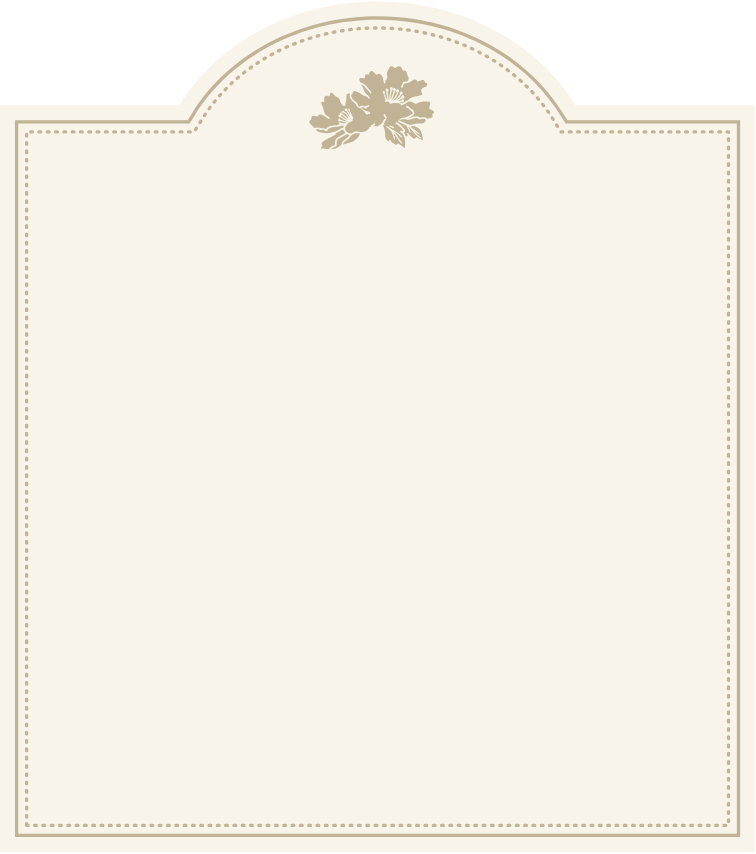
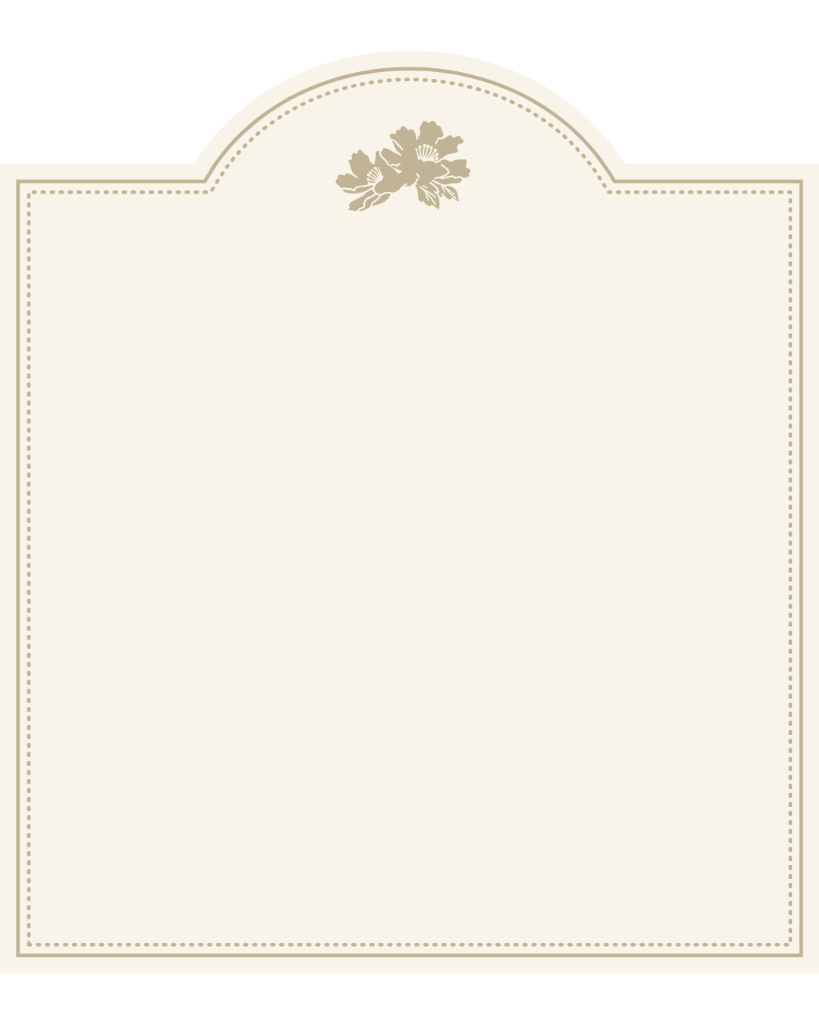
Replace event card background with new vintage arch card design

diff --git a/styles.css b/styles.css
@@ -4,7 +4,7 @@
 /* Invitation opening: each prop has its own layer. */
 .opening{position:fixed;z-index:90;inset:0;color:var(--paper);display:flex;align-items:center;justify-content:center;overflow:hidden;background:#244638;transition:opacity .8s ease,visibility .8s}.curtain{position:absolute;inset-block:0;width:50.2%;background-image:linear-gradient(#0d223a25,#0e23314d),url('assets/01-background-satin.webp');background-size:200% 100%;transition:transform 1.5s cubic-bezier(.7,0,.25,1);pointer-events:none}.curtain-left{left:0;background-position:left center;transform-origin:left center}.curtain-right{right:0;background-position:right center;transform-origin:right center}.opening:after{content:"";position:absolute;inset:0;box-shadow:inset 0 0 180px #081d2866;pointer-events:none;z-index:-1}.opening-content{width:min(540px,100%);text-align:center;position:relative;padding:35px 20px 25px;z-index:2;transition:opacity .7s,transform 1s}.cover-badge{font-size:9px;letter-spacing:.32em;color:#eedec5;margin-bottom:10px;text-transform:uppercase}.cover-lantern{position:absolute;z-index:1;top:-65px;width:clamp(110px,17vw,245px);filter:drop-shadow(0 14px 20px #122a3530)}.lantern-left{left:max(20px,calc(50% - 570px))}.lantern-right{right:max(20px,calc(50% - 570px));top:-110px;animation-delay:-3s}.envelope-scene{position:relative;width:100%;height:330px;margin:20px 0 0;perspective:1000px}.envelope-motion{position:absolute;width:90%;height:auto;aspect-ratio:3/2;left:5%;top:15px;transform:rotate(-5deg);transition:transform 1.2s cubic-bezier(.22,1,.36,1);transform-style:preserve-3d}.envelope-body{width:100%;position:absolute;top:0;z-index:4;filter:drop-shadow(0 20px 14px #102b3044);pointer-events:none}.envelope-flap{position:absolute;z-index:5;width:89.8%;left:5.1%;top:1.9%;transform-origin:50% 18.75%;transition:transform 1s cubic-bezier(.4,0,.2,1),z-index .1s .5s;backface-visibility:visible}.envelope-flap>img{width:100%}.envelope-seal{position:absolute;z-index:6;top:62%;left:42%;width:16.5%;cursor:pointer;filter:drop-shadow(0 4px 6px #102b3040);transition:transform .6s cubic-bezier(.34,1.56,.64,1),opacity .45s ease}.letter-insert{position:absolute;z-index:2;width:82%;height:92%;left:9%;top:4%;background:#fbf7ee;color:var(--jade);border:1px solid #c8b593;box-shadow:inset 0 0 0 1px #eedec5,0 8px 25px #0a1f2640;display:flex;align-items:center;justify-content:center;flex-direction:column;gap:3px;padding:20px 16px 16px;text-align:center;transition:transform 1.2s cubic-bezier(.2,.8,.2,1) .45s,z-index .1s .9s,box-shadow .8s}.letter-insert .letter-eyebrow{font:8px var(--sans);letter-spacing:.26em;color:#7e6955;text-transform:uppercase}.letter-insert .letter-title{font-size:54px;line-height:.92;color:#22533e;margin:6px 0 4px}.letter-insert .letter-title span{font-size:.6em;color:#b15a47;margin:0 4px}.letter-insert .letter-rule{width:42px;height:1px;background:#cbbba0;margin:6px auto}.letter-insert .letter-date{font-family:var(--serif);font-size:13px;letter-spacing:.15em;color:#4f3d56;text-transform:uppercase;margin:4px 0 2px}.letter-insert .letter-city{font:8px var(--sans);letter-spacing:.22em;color:#857560;text-transform:uppercase}.envelope-tulip{position:absolute;width:28%;left:-4%;bottom:-8%;top:auto;right:auto;z-index:7;rotate:15deg;filter:drop-shadow(0 5px 6px #102b3033);transition:transform 1.2s,translate 1.2s}.envelope-fan{position:absolute;width:42%;right:-2%;top:-12%;transform:rotate(14deg);z-index:0;transition:transform 1.2s}.guest-address{margin:6px 0 20px;transition:opacity .4s ease}.guest-address .eyebrow{font-size:8px;letter-spacing:.22em}.guest-name{font-size:22px;margin-top:4px}.skip-opening{display:block;margin:18px auto 0;font:9px var(--sans);letter-spacing:.08em;color:#f1e6d9b0;background:transparent;padding:8px;transition:opacity .4s ease}#open-invitation{transition:opacity .4s ease}.opening.is-opening .envelope-seal{opacity:0;transform:scale(1.25) translateY(35px) rotate(20deg);pointer-events:none}.opening.is-opening .envelope-flap{transform:rotateX(180deg);z-index:1}.opening.is-opening .envelope-motion{transform:rotate(0deg) translateY(12px)}.opening.is-opening .letter-insert{transform:translateY(-86%) scale(1.05);z-index:8;box-shadow:inset 0 0 0 1px #eedec5,0 24px 45px #07171d55}.opening.is-opening .envelope-tulip{translate:-18px 10px;rotate:25deg}.opening.is-opening .envelope-fan{transform:rotate(25deg) translate(18px,-10px)}.opening.is-opening .guest-address,.opening.is-opening #open-invitation,.opening.is-opening .skip-opening{opacity:0;pointer-events:none}.opening.opened .curtain-left{transform:translateX(-105%)}.opening.opened .curtain-right{transform:translateX(105%)}.opening.opened .opening-content{opacity:0;transform:scale(1.08)}.opening.dismissed{opacity:0;visibility:hidden;pointer-events:none}
 /* Desktop remains an editorial portrait while the invitation scrolls. */
-.desktop-art{position:fixed;left:0;top:0;width:calc(100% - 560px);height:100dvh;overflow:hidden;background:linear-gradient(#102f3555,#113c4077),url('assets/01-background-satin.webp') center/cover;color:var(--paper)}.desktop-text{position:relative;z-index:2;text-align:center;padding-top:17vh}.desktop-text>.script{font-size:clamp(95px,9vw,150px);margin-top:28px;line-height:.9}.desktop-text>.script span{font-size:.5em}.desktop-date{font-size:11px;letter-spacing:.25em;margin-top:35px}.desktop-lantern{position:absolute;top:-55px;left:2%;width:28%;max-width:220px}.desktop-lantern.second{left:auto;right:0;top:-135px;animation-delay:-3s}.desktop-bouquet{position:absolute;bottom:-8%;right:-8%;width:39%;max-width:400px;z-index:3}.desktop-fan{position:absolute;bottom:-1%;left:-7%;width:51%;transform:rotate(12deg);filter:drop-shadow(0 12px 15px #113c4040)}.desktop-bottom{position:absolute;bottom:25px;left:30px;right:30px;display:flex;justify-content:space-between;font:8px var(--sans);letter-spacing:.18em;z-index:4}.desktop-bottom span:last-child{font-family:var(--serif);font-style:italic;letter-spacing:.05em;font-size:13px}main{width:560px;margin-left:auto;box-shadow:-15px 0 65px #041c3329;background:var(--paper)}.hero{min-height:860px;min-height:100svh;background:#dae6d8;padding:28px 25px 55px;text-align:center}.hero:before{content:"";inset:12px;position:absolute;border:1px solid #91a88a77;pointer-events:none}.hero-top{display:flex;justify-content:space-between;font:8px var(--sans);letter-spacing:.18em;margin-bottom:48px;color:#496653}.hero>.eyebrow{font-size:8px;letter-spacing:.25em}.hero-medallion{position:relative;width:86%;max-width:360px;height:auto;aspect-ratio:2/3;margin:15px auto 8px}.date-card{width:100%;height:100%}.hero-medallion-text{position:absolute;inset:17% 14% 12%;display:flex;flex-direction:column;justify-content:center;align-items:center;color:#513e58}.hero-medallion-text .eyebrow{font-size:7px}.hero-medallion-text h2{font-size:75px;line-height:.8;margin-top:20px}.hero-medallion-text h2 em{font-size:35px;font-style:normal;display:inline-block;margin:10px}.hero-medallion-text p{font:9px var(--sans);letter-spacing:.16em}.hero-medallion-text .fine-rule{margin:25px auto 18px}.hero-knot{top:58px;right:-7px;width:87px;z-index:3}.hero-peony{width:170px;bottom:100px;left:-42px;z-index:3}.hero-fan{width:220px;right:-77px;bottom:145px;rotate:-32deg}.hero-bottom{position:relative;z-index:4;font-size:18px;margin:0 auto;max-width:350px}.scroll-cue{display:flex;flex-direction:column;align-items:center;font:8px var(--sans);letter-spacing:.2em;text-decoration:none;margin-top:28px;gap:14px}.scroll-cue span{font:25px var(--serif)}.quote{text-align:center;padding-block:80px 65px}.small-symbol{width:65px;margin:0 auto 25px}.quote blockquote{font-size:30px;font-style:italic;line-height:1.45;margin:26px -15px}.quote-foot{font-size:17px}.ornamental-rule{margin:35px auto 0;color:var(--gold);position:relative;display:flex;align-items:center;gap:15px;justify-content:center}.ornamental-rule:before,.ornamental-rule:after{content:"";width:60px;height:1px;background:#baa37c77}.couple{text-align:center;padding-inline:35px}.couple-portrait{position:relative;width:275px;height:412px;margin:0 auto 30px}.portrait{position:absolute;width:70%;height:72%;left:15%;top:14%;object-fit:cover;border-radius:50%;filter:sepia(.13)}.portrait-frame{position:absolute;inset:0;width:100%;height:100%;z-index:2}.portrait-flower{position:absolute;z-index:3;width:115px;right:-33px;bottom:-12px}.couple-names h3{font-size:29px;font-weight:500}.couple-names p{font-size:17px;margin-top:9px}.couple-and{display:block;font-size:45px;color:#b15a47;margin:16px auto}.couple-knot-ornament{position:absolute;left:18px;top:-28px;width:72px;z-index:4;filter:drop-shadow(0 4px 8px rgba(16,43,48,.25));animation:sway 6s ease-in-out infinite;transform-origin:50% 0}.couple-knot-ornament img{width:100%}.keepsake{padding:70px 20px 60px;text-align:center;color:var(--paper);background:radial-gradient(ellipse at 20% 10%,#335f43 0,transparent 55%),#113d30;position:relative}.keepsake:after{content:"";position:absolute;inset:14px;border:1px solid #bd9d6f42;pointer-events:none;z-index:-1}.keepsake .section-heading{margin-bottom:0}.keepsake-collage{height:490px;width:100%;position:relative;max-width:440px;margin:15px auto 25px}.keepsake-item{transition:opacity .85s cubic-bezier(.22,1,.36,1),transform .95s cubic-bezier(.22,1,.36,1);will-change:transform,opacity}.keepsake-collage:not(.in-view) .keepsake-item{opacity:0;pointer-events:none}.keepsake-collage:not(.in-view) .keepsake-pearls{transform:translateY(-35px) scale(.92)}.keepsake-collage:not(.in-view) .tray-composition{transform:translate(35px,-25px) scale(.9) rotate(8deg)}.keepsake-collage:not(.in-view) .keepsake-name-card{transform:translate(-35px,20px) scale(.9) rotate(-10deg)}.keepsake-collage:not(.in-view) .keepsake-date{transform:translate(35px,20px) scale(.9) rotate(12deg)}.keepsake-collage:not(.in-view) .keepsake-fan{transform:translate(-30px,40px) scale(.85) rotate(-18deg)}.keepsake-collage:not(.in-view) .polaroid-one{transform:translateY(45px) scale(.85) rotate(-5deg)}.keepsake-collage:not(.in-view) .keepsake-bouquet{transform:translate(35px,40px) scale(.85) rotate(15deg)}.keepsake-collage.in-view .keepsake-item{opacity:1}.keepsake-collage.in-view .keepsake-pearls{transition-delay:.1s;transform:translateY(0) scale(1) rotate(-6deg)}.keepsake-collage.in-view .tray-composition{transition-delay:.28s;transform:translate(0,0) scale(1) rotate(4deg)}.keepsake-collage.in-view .keepsake-name-card{transition-delay:.48s;transform:translate(0,0) scale(1) rotate(-4deg)}.keepsake-collage.in-view .keepsake-date{transition-delay:.68s;transform:translate(0,0) scale(1) rotate(5deg)}.keepsake-collage.in-view .keepsake-fan{transition-delay:.88s;transform:translate(0,0) scale(1) rotate(-8deg)}.keepsake-collage.in-view .polaroid-one{transition-delay:1.08s;transform:translate(0,0) scale(1) rotate(0deg)}.keepsake-collage.in-view .keepsake-bouquet{transition-delay:1.28s;transform:translate(0,0) scale(1) rotate(6deg)}.keepsake-name-card{position:absolute;left:8%;top:68px;width:48%;aspect-ratio:2/3;z-index:2;filter:drop-shadow(0 10px 14px #0006)}.keepsake-name-card>img{position:absolute;inset:0;z-index:2;width:100%;height:100%}.name-card-fill{position:absolute;inset:18% 15% 18%;border-radius:50%;background:#f2ead8}.name-card-copy{position:absolute;inset:28% 12% 18%;z-index:3;text-align:center;color:#235540;font-size:36px;line-height:.9}.name-card-copy span{font-size:22px}.tray-composition{position:absolute;right:6%;top:35px;width:49%;aspect-ratio:3/2;z-index:2;filter:drop-shadow(0 10px 14px #0006)}.tray{width:100%}.tiny-envelope{position:absolute;inset:9% 11%;rotate:-14deg}.tiny-envelope>img:first-child{width:100%}.tiny-seal{position:absolute;width:23%;left:39%;top:40%}.keepsake-date{position:absolute;right:7%;top:108px;width:38%;aspect-ratio:2/3;z-index:3;filter:drop-shadow(0 8px 12px #0005)}.keepsake-date>img{width:100%}.keepsake-date>.script{position:absolute;inset:22% 12%;text-align:center;color:#55445f;font-size:26px;line-height:.88}.keepsake-date>.script span{font-size:26px;display:inline-block;margin:7px 0}.keepsake-pearls{position:absolute;width:44%;height:auto;max-height:185px;object-fit:contain;left:14%;top:6px;z-index:1;filter:drop-shadow(0 4px 8px #0006);pointer-events:none}.keepsake-fan{position:absolute;bottom:22px;left:8%;width:45%;z-index:4;filter:drop-shadow(0 8px 14px #0006)}.polaroid{position:absolute;background:#f7f2e7;padding:6px 6px 4px;box-shadow:0 10px 20px #0007;width:33%;z-index:5}.polaroid img{width:100%;aspect-ratio:4/5;object-fit:cover}.polaroid span{font-size:16px;font-family:var(--script);color:#775b4d;display:block;margin-top:2px;text-align:center}.polaroid-one{left:35%;bottom:14px}.polaroid-two{display:none}.keepsake-bouquet{position:absolute;width:34%;right:6%;bottom:12px;z-index:6;filter:drop-shadow(0 10px 14px #0005)}.keepsake-seal{display:none}.events{padding-bottom:80px}.event-card{position:relative;z-index:2;text-align:center;background:url('assets/event-card-bg.webp') no-repeat center top / 100% 100%;margin:35px auto;padding:86px 26px 38px;max-width:375px;width:92%;filter:drop-shadow(0 14px 26px rgba(16,43,48,0.13));border:0;outline:0}.event-number{position:relative;left:auto;top:auto;display:block;font:11px var(--sans);letter-spacing:.24em;color:#b69971;margin-bottom:2px}.event-card h3{font-size:36px;font-weight:400;margin:6px auto 4px;color:#1c4538}.event-time{font-size:16px;letter-spacing:.06em;color:#6d5947}.event-card .fine-rule{width:42px;margin:14px auto;opacity:.35}.event-card h4{font-size:22px;font-weight:500;margin-bottom:6px;color:#22473a}.event-card>p:not(.eyebrow):not(.event-time){font-size:16px;line-height:1.45;color:#463b33}.event-card .text-link{display:inline-block;margin-top:15px;font:11px var(--sans);font-weight:600;letter-spacing:.16em;color:#ab523e;text-decoration:none;border-bottom:1px solid #ab523e55;padding-bottom:2px;transition:color .2s,border-color .2s}.event-card .text-link:hover{color:var(--jade);border-color:var(--jade)}.events-tulip{width:130px;bottom:12px;right:-32px;z-index:3;rotate:15deg}.countdown{background:linear-gradient(#18374ca3,#163949c4),url('assets/01-background-satin.webp') center/cover;color:var(--paper);padding:80px 32px 65px;text-align:center}.countdown .section-heading h2{font-size:46px}.countdown-lantern{position:relative;width:115px;height:200px;object-fit:contain;margin:-65px auto 12px}.countdown-grid{display:flex;align-items:flex-start;justify-content:center;gap:9px;margin:30px 0 24px}.countdown-grid>div{display:flex;flex-direction:column;min-width:57px}.countdown-grid strong{font-size:49px;font-weight:400;line-height:1.1}.countdown-grid span{font:7px var(--sans);letter-spacing:.18em;margin-top:10px}.countdown-grid i{font-style:normal;font-size:32px;line-height:1.5;color:var(--gold)}#countdown-status{font-size:17px;margin-bottom:26px}.countdown .button{font-size:9px;padding:15px 18px}.story{padding-bottom:90px}.story-timeline{position:relative;max-width:340px;margin:auto;padding-left:35px}.story-timeline:before{content:"";position:absolute;left:6px;top:10px;bottom:20px;width:1px;background:#b6a085}.story-timeline article{position:relative;margin-bottom:38px}.story-timeline article:before{content:"";position:absolute;left:-33px;top:8px;width:9px;height:9px;border-radius:50%;background:var(--red);outline:5px solid var(--blush)}.story-timeline article>span{font:10px var(--sans);letter-spacing:.2em;color:#a45243}.story-timeline h3{font-weight:500;font-size:26px;margin:7px 0 8px}.story-timeline p{font-size:17px;line-height:1.6}.story-peony{width:115px;bottom:0;right:-18px;opacity:.9}.gallery{text-align:center}.gallery-layout{position:relative}.photo-button{display:block;position:relative;margin:auto;background:transparent;width:290px;height:435px;padding:0;transition:scale .5s}.photo-button:hover{scale:1.025}.gallery-photo{position:absolute;left:16%;top:17%;width:68%;height:65%;object-fit:cover;border-radius:50%;filter:sepia(.15)}.gallery-frame{position:absolute;width:100%;height:100%;inset:0}.gallery-first{rotate:-5deg;margin-left:0}.gallery-second{rotate:5deg;margin-right:0;width:260px;height:390px}.gallery-second .gallery-photo{left:17%;top:22%;width:66%;height:56%}.gallery-caption{font-family:var(--script);font-size:29px;color:#a66559;margin:5px 0 15px 70px}.dress{text-align:center}.narrow-copy{max-width:330px;margin:auto;font-size:18px}.swatches{display:flex;justify-content:center;gap:15px;margin:30px -15px 10px}.swatches>div{display:flex;align-items:center;flex-direction:column;gap:9px}.swatches i{display:block;width:42px;height:42px;border-radius:50%;background:var(--swatch);border:4px solid #fff6;outline:1px solid #a3af9950}.swatches span{font-size:12px}.dress-fan{width:230px;margin:22px auto -42px;rotate:-8deg}.elegant-form{position:relative;z-index:2;max-width:355px;margin:auto;text-align:left}.elegant-form>label,.elegant-form legend{font:9px var(--sans);letter-spacing:.13em;display:block;margin:22px 0 9px}.elegant-form input:not([type=radio]),.elegant-form textarea,.elegant-form select{display:block;width:100%;border:1px solid #87998080;border-radius:0;background:#fffcf47a;color:#294b40;padding:12px 14px;font-size:18px;min-height:49px}.elegant-form input::placeholder,.elegant-form textarea::placeholder{color:#667c70a0}.elegant-form textarea{resize:vertical}.elegant-form .button{width:100%;margin-top:25px}.elegant-form fieldset{border:0;padding:0;margin:25px 0}.elegant-form legend{margin:0 0 10px}.radio-label{display:flex;align-items:center;gap:10px;padding:8px 0;font-size:18px}.radio-label input{accent-color:var(--jade);width:17px;height:17px}.form-status{font-size:16px;line-height:1.4;margin-top:15px;min-height:23px}.form-status.error{color:#ad3c30}.gift{text-align:center}.bank-card{position:relative;padding:30px 18px;background:#e8dfd0;border:1px solid #baa785;margin-top:28px}.bank-card h3{font-size:28px;font-weight:400;letter-spacing:.08em;margin:10px 0}.bank-card p:not(.eyebrow){font-size:18px}.bank-card button{margin-top:12px}.small-note{font-size:14px;opacity:.7;margin-top:18px}.rsvp{padding-top:90px}.rsvp-seal{width:65px;position:absolute;top:20px;left:calc(50% - 32.5px)}.guestbook-list{max-width:355px;margin:35px auto 0}.wish{border-top:1px solid #c2b29180;padding:22px 0;text-align:left}.wish p{font-size:20px;font-style:italic;overflow-wrap:anywhere}.wish footer{font:9px var(--sans);letter-spacing:.08em;display:flex;justify-content:space-between;gap:15px;margin-top:13px}.wish time{opacity:.5;white-space:nowrap}.empty-wishes{font-size:17px;text-align:center;font-style:italic;opacity:.65}.closing{background:linear-gradient(#20404f30,#183b4920),url('assets/01-background-satin.webp') center/cover;padding:65px 18px 45px;color:var(--paper);text-align:center}.closing-medallion{position:relative;width:100%;max-width:420px;aspect-ratio:2/3;margin:auto}.closing-fill{position:absolute;background:var(--paper);inset:12% 12%;border-radius:50%}.closing-lace{position:absolute;inset:0;width:100%;height:100%}.closing-copy{position:absolute;inset:23% 17% 15%;color:var(--ink);z-index:2;text-align:center}.closing-copy>.eyebrow{font-size:7px}.closing-copy h2{font-size:44px;margin:13px 0 16px}.closing-copy>p:not(.eyebrow):not(.script){font-size:15px;line-height:1.5;margin:12px -10px}.closing-names{font-size:46px;line-height:.9;margin-top:15px}.closing-names span{font-size:38px}.closing-copy .fine-rule{margin:18px auto}.closing-flower{position:absolute;width:32%;right:-6%;bottom:1%;z-index:3;rotate:8deg}.closing-date{font-size:17px;letter-spacing:.22em;margin-top:22px}.closing>.eyebrow{margin-top:15px;font-size:8px}.replay{color:var(--paper);margin-top:24px;font-size:8px;opacity:.8}.page-tail{height:70px;background:#183b49}.bottom-nav{position:fixed;bottom:15px;right:30px;width:500px;max-width:calc(100% - 30px);height:57px;z-index:30;background:#f8f2e8f5;backdrop-filter:blur(16px);border:1px solid #bbab8a87;box-shadow:0 6px 30px #0a30264a;border-radius:5px;display:flex;align-items:center;justify-content:space-around;transition:opacity .6s}.bottom-nav a{display:flex;flex-direction:column;align-items:center;gap:2px;text-decoration:none;color:#4e6b5c;min-width:56px;padding:5px 0}.bottom-nav a>span{font-size:22px;line-height:1}.bottom-nav small{font:7px var(--sans);letter-spacing:.03em}.bottom-nav a.active{color:var(--red)}.music-toggle{position:fixed;bottom:87px;right:21px;width:36px;height:36px;border:1px solid #e9dcc499;border-radius:50%;background:#184a3dea;color:var(--paper);z-index:35;font-size:20px}.music-toggle[aria-pressed=true]{animation:music-spin 10s linear infinite}@keyframes music-spin{to{rotate:360deg}}body.unopened .bottom-nav,body.unopened .music-toggle{opacity:0;pointer-events:none}.photo-dialog{border:0;background:#12392ef0;padding:40px 20px 20px;max-width:min(90vw,650px);max-height:92dvh;color:var(--paper);box-shadow:0 15px 70px #0007}.photo-dialog::backdrop{background:#091913e6;backdrop-filter:blur(8px)}.photo-dialog img{max-height:75dvh;max-width:100%;object-fit:contain;margin:auto}.photo-dialog button{position:absolute;right:4px;top:-2px;font-size:35px;background:transparent;color:var(--paper);width:42px;height:42px}.photo-dialog p{text-align:center;font-style:italic;font-size:18px;margin-top:10px}.toast{position:fixed;bottom:90px;left:50%;transform:translate(-50%,15px);padding:13px 22px;background:var(--paper);border:1px solid var(--gold);box-shadow:0 8px 30px #0003;z-index:100;font-size:16px;opacity:0;pointer-events:none;transition:.3s;max-width:90vw;text-align:center}.toast.visible{opacity:1;transform:translate(-50%,0)}
+.desktop-art{position:fixed;left:0;top:0;width:calc(100% - 560px);height:100dvh;overflow:hidden;background:linear-gradient(#102f3555,#113c4077),url('assets/01-background-satin.webp') center/cover;color:var(--paper)}.desktop-text{position:relative;z-index:2;text-align:center;padding-top:17vh}.desktop-text>.script{font-size:clamp(95px,9vw,150px);margin-top:28px;line-height:.9}.desktop-text>.script span{font-size:.5em}.desktop-date{font-size:11px;letter-spacing:.25em;margin-top:35px}.desktop-lantern{position:absolute;top:-55px;left:2%;width:28%;max-width:220px}.desktop-lantern.second{left:auto;right:0;top:-135px;animation-delay:-3s}.desktop-bouquet{position:absolute;bottom:-8%;right:-8%;width:39%;max-width:400px;z-index:3}.desktop-fan{position:absolute;bottom:-1%;left:-7%;width:51%;transform:rotate(12deg);filter:drop-shadow(0 12px 15px #113c4040)}.desktop-bottom{position:absolute;bottom:25px;left:30px;right:30px;display:flex;justify-content:space-between;font:8px var(--sans);letter-spacing:.18em;z-index:4}.desktop-bottom span:last-child{font-family:var(--serif);font-style:italic;letter-spacing:.05em;font-size:13px}main{width:560px;margin-left:auto;box-shadow:-15px 0 65px #041c3329;background:var(--paper)}.hero{min-height:860px;min-height:100svh;background:#dae6d8;padding:28px 25px 55px;text-align:center}.hero:before{content:"";inset:12px;position:absolute;border:1px solid #91a88a77;pointer-events:none}.hero-top{display:flex;justify-content:space-between;font:8px var(--sans);letter-spacing:.18em;margin-bottom:48px;color:#496653}.hero>.eyebrow{font-size:8px;letter-spacing:.25em}.hero-medallion{position:relative;width:86%;max-width:360px;height:auto;aspect-ratio:2/3;margin:15px auto 8px}.date-card{width:100%;height:100%}.hero-medallion-text{position:absolute;inset:17% 14% 12%;display:flex;flex-direction:column;justify-content:center;align-items:center;color:#513e58}.hero-medallion-text .eyebrow{font-size:7px}.hero-medallion-text h2{font-size:75px;line-height:.8;margin-top:20px}.hero-medallion-text h2 em{font-size:35px;font-style:normal;display:inline-block;margin:10px}.hero-medallion-text p{font:9px var(--sans);letter-spacing:.16em}.hero-medallion-text .fine-rule{margin:25px auto 18px}.hero-knot{top:58px;right:-7px;width:87px;z-index:3}.hero-peony{width:170px;bottom:100px;left:-42px;z-index:3}.hero-fan{width:220px;right:-77px;bottom:145px;rotate:-32deg}.hero-bottom{position:relative;z-index:4;font-size:18px;margin:0 auto;max-width:350px}.scroll-cue{display:flex;flex-direction:column;align-items:center;font:8px var(--sans);letter-spacing:.2em;text-decoration:none;margin-top:28px;gap:14px}.scroll-cue span{font:25px var(--serif)}.quote{text-align:center;padding-block:80px 65px}.small-symbol{width:65px;margin:0 auto 25px}.quote blockquote{font-size:30px;font-style:italic;line-height:1.45;margin:26px -15px}.quote-foot{font-size:17px}.ornamental-rule{margin:35px auto 0;color:var(--gold);position:relative;display:flex;align-items:center;gap:15px;justify-content:center}.ornamental-rule:before,.ornamental-rule:after{content:"";width:60px;height:1px;background:#baa37c77}.couple{text-align:center;padding-inline:35px}.couple-portrait{position:relative;width:275px;height:412px;margin:0 auto 30px}.portrait{position:absolute;width:70%;height:72%;left:15%;top:14%;object-fit:cover;border-radius:50%;filter:sepia(.13)}.portrait-frame{position:absolute;inset:0;width:100%;height:100%;z-index:2}.portrait-flower{position:absolute;z-index:3;width:115px;right:-33px;bottom:-12px}.couple-names h3{font-size:29px;font-weight:500}.couple-names p{font-size:17px;margin-top:9px}.couple-and{display:block;font-size:45px;color:#b15a47;margin:16px auto}.couple-knot-ornament{position:absolute;left:18px;top:-28px;width:72px;z-index:4;filter:drop-shadow(0 4px 8px rgba(16,43,48,.25));animation:sway 6s ease-in-out infinite;transform-origin:50% 0}.couple-knot-ornament img{width:100%}.keepsake{padding:70px 20px 60px;text-align:center;color:var(--paper);background:radial-gradient(ellipse at 20% 10%,#335f43 0,transparent 55%),#113d30;position:relative}.keepsake:after{content:"";position:absolute;inset:14px;border:1px solid #bd9d6f42;pointer-events:none;z-index:-1}.keepsake .section-heading{margin-bottom:0}.keepsake-collage{height:490px;width:100%;position:relative;max-width:440px;margin:15px auto 25px}.keepsake-item{transition:opacity .85s cubic-bezier(.22,1,.36,1),transform .95s cubic-bezier(.22,1,.36,1);will-change:transform,opacity}.keepsake-collage:not(.in-view) .keepsake-item{opacity:0;pointer-events:none}.keepsake-collage:not(.in-view) .keepsake-pearls{transform:translateY(-35px) scale(.92)}.keepsake-collage:not(.in-view) .tray-composition{transform:translate(35px,-25px) scale(.9) rotate(8deg)}.keepsake-collage:not(.in-view) .keepsake-name-card{transform:translate(-35px,20px) scale(.9) rotate(-10deg)}.keepsake-collage:not(.in-view) .keepsake-date{transform:translate(35px,20px) scale(.9) rotate(12deg)}.keepsake-collage:not(.in-view) .keepsake-fan{transform:translate(-30px,40px) scale(.85) rotate(-18deg)}.keepsake-collage:not(.in-view) .polaroid-one{transform:translateY(45px) scale(.85) rotate(-5deg)}.keepsake-collage:not(.in-view) .keepsake-bouquet{transform:translate(35px,40px) scale(.85) rotate(15deg)}.keepsake-collage.in-view .keepsake-item{opacity:1}.keepsake-collage.in-view .keepsake-pearls{transition-delay:.1s;transform:translateY(0) scale(1) rotate(-6deg)}.keepsake-collage.in-view .tray-composition{transition-delay:.28s;transform:translate(0,0) scale(1) rotate(4deg)}.keepsake-collage.in-view .keepsake-name-card{transition-delay:.48s;transform:translate(0,0) scale(1) rotate(-4deg)}.keepsake-collage.in-view .keepsake-date{transition-delay:.68s;transform:translate(0,0) scale(1) rotate(5deg)}.keepsake-collage.in-view .keepsake-fan{transition-delay:.88s;transform:translate(0,0) scale(1) rotate(-8deg)}.keepsake-collage.in-view .polaroid-one{transition-delay:1.08s;transform:translate(0,0) scale(1) rotate(0deg)}.keepsake-collage.in-view .keepsake-bouquet{transition-delay:1.28s;transform:translate(0,0) scale(1) rotate(6deg)}.keepsake-name-card{position:absolute;left:8%;top:68px;width:48%;aspect-ratio:2/3;z-index:2;filter:drop-shadow(0 10px 14px #0006)}.keepsake-name-card>img{position:absolute;inset:0;z-index:2;width:100%;height:100%}.name-card-fill{position:absolute;inset:18% 15% 18%;border-radius:50%;background:#f2ead8}.name-card-copy{position:absolute;inset:28% 12% 18%;z-index:3;text-align:center;color:#235540;font-size:36px;line-height:.9}.name-card-copy span{font-size:22px}.tray-composition{position:absolute;right:6%;top:35px;width:49%;aspect-ratio:3/2;z-index:2;filter:drop-shadow(0 10px 14px #0006)}.tray{width:100%}.tiny-envelope{position:absolute;inset:9% 11%;rotate:-14deg}.tiny-envelope>img:first-child{width:100%}.tiny-seal{position:absolute;width:23%;left:39%;top:40%}.keepsake-date{position:absolute;right:7%;top:108px;width:38%;aspect-ratio:2/3;z-index:3;filter:drop-shadow(0 8px 12px #0005)}.keepsake-date>img{width:100%}.keepsake-date>.script{position:absolute;inset:22% 12%;text-align:center;color:#55445f;font-size:26px;line-height:.88}.keepsake-date>.script span{font-size:26px;display:inline-block;margin:7px 0}.keepsake-pearls{position:absolute;width:44%;height:auto;max-height:185px;object-fit:contain;left:14%;top:6px;z-index:1;filter:drop-shadow(0 4px 8px #0006);pointer-events:none}.keepsake-fan{position:absolute;bottom:22px;left:8%;width:45%;z-index:4;filter:drop-shadow(0 8px 14px #0006)}.polaroid{position:absolute;background:#f7f2e7;padding:6px 6px 4px;box-shadow:0 10px 20px #0007;width:33%;z-index:5}.polaroid img{width:100%;aspect-ratio:4/5;object-fit:cover}.polaroid span{font-size:16px;font-family:var(--script);color:#775b4d;display:block;margin-top:2px;text-align:center}.polaroid-one{left:35%;bottom:14px}.polaroid-two{display:none}.keepsake-bouquet{position:absolute;width:34%;right:6%;bottom:12px;z-index:6;filter:drop-shadow(0 10px 14px #0005)}.keepsake-seal{display:none}.events{padding-bottom:80px}.event-card{position:relative;z-index:2;text-align:center;background:url('assets/event-card-bg.webp') no-repeat center top / 100% 100%;margin:35px auto;padding:82px 30px 42px;max-width:370px;width:92%;filter:drop-shadow(0 14px 26px rgba(16,43,48,0.13));border:0;outline:0}.event-number{position:relative;left:auto;top:auto;display:block;font:11px var(--sans);letter-spacing:.24em;color:#b69971;margin-bottom:2px}.event-card h3{font-size:36px;font-weight:400;margin:6px auto 4px;color:#1c4538}.event-time{font-size:16px;letter-spacing:.06em;color:#6d5947}.event-card .fine-rule{width:42px;margin:14px auto;opacity:.35}.event-card h4{font-size:22px;font-weight:500;margin-bottom:6px;color:#22473a}.event-card>p:not(.eyebrow):not(.event-time){font-size:16px;line-height:1.45;color:#463b33}.event-card .text-link{display:inline-block;margin-top:15px;font:11px var(--sans);font-weight:600;letter-spacing:.16em;color:#ab523e;text-decoration:none;border-bottom:1px solid #ab523e55;padding-bottom:2px;transition:color .2s,border-color .2s}.event-card .text-link:hover{color:var(--jade);border-color:var(--jade)}.events-tulip{width:130px;bottom:12px;right:-32px;z-index:3;rotate:15deg}.countdown{background:linear-gradient(#18374ca3,#163949c4),url('assets/01-background-satin.webp') center/cover;color:var(--paper);padding:80px 32px 65px;text-align:center}.countdown .section-heading h2{font-size:46px}.countdown-lantern{position:relative;width:115px;height:200px;object-fit:contain;margin:-65px auto 12px}.countdown-grid{display:flex;align-items:flex-start;justify-content:center;gap:9px;margin:30px 0 24px}.countdown-grid>div{display:flex;flex-direction:column;min-width:57px}.countdown-grid strong{font-size:49px;font-weight:400;line-height:1.1}.countdown-grid span{font:7px var(--sans);letter-spacing:.18em;margin-top:10px}.countdown-grid i{font-style:normal;font-size:32px;line-height:1.5;color:var(--gold)}#countdown-status{font-size:17px;margin-bottom:26px}.countdown .button{font-size:9px;padding:15px 18px}.story{padding-bottom:90px}.story-timeline{position:relative;max-width:340px;margin:auto;padding-left:35px}.story-timeline:before{content:"";position:absolute;left:6px;top:10px;bottom:20px;width:1px;background:#b6a085}.story-timeline article{position:relative;margin-bottom:38px}.story-timeline article:before{content:"";position:absolute;left:-33px;top:8px;width:9px;height:9px;border-radius:50%;background:var(--red);outline:5px solid var(--blush)}.story-timeline article>span{font:10px var(--sans);letter-spacing:.2em;color:#a45243}.story-timeline h3{font-weight:500;font-size:26px;margin:7px 0 8px}.story-timeline p{font-size:17px;line-height:1.6}.story-peony{width:115px;bottom:0;right:-18px;opacity:.9}.gallery{text-align:center}.gallery-layout{position:relative}.photo-button{display:block;position:relative;margin:auto;background:transparent;width:290px;height:435px;padding:0;transition:scale .5s}.photo-button:hover{scale:1.025}.gallery-photo{position:absolute;left:16%;top:17%;width:68%;height:65%;object-fit:cover;border-radius:50%;filter:sepia(.15)}.gallery-frame{position:absolute;width:100%;height:100%;inset:0}.gallery-first{rotate:-5deg;margin-left:0}.gallery-second{rotate:5deg;margin-right:0;width:260px;height:390px}.gallery-second .gallery-photo{left:17%;top:22%;width:66%;height:56%}.gallery-caption{font-family:var(--script);font-size:29px;color:#a66559;margin:5px 0 15px 70px}.dress{text-align:center}.narrow-copy{max-width:330px;margin:auto;font-size:18px}.swatches{display:flex;justify-content:center;gap:15px;margin:30px -15px 10px}.swatches>div{display:flex;align-items:center;flex-direction:column;gap:9px}.swatches i{display:block;width:42px;height:42px;border-radius:50%;background:var(--swatch);border:4px solid #fff6;outline:1px solid #a3af9950}.swatches span{font-size:12px}.dress-fan{width:230px;margin:22px auto -42px;rotate:-8deg}.elegant-form{position:relative;z-index:2;max-width:355px;margin:auto;text-align:left}.elegant-form>label,.elegant-form legend{font:9px var(--sans);letter-spacing:.13em;display:block;margin:22px 0 9px}.elegant-form input:not([type=radio]),.elegant-form textarea,.elegant-form select{display:block;width:100%;border:1px solid #87998080;border-radius:0;background:#fffcf47a;color:#294b40;padding:12px 14px;font-size:18px;min-height:49px}.elegant-form input::placeholder,.elegant-form textarea::placeholder{color:#667c70a0}.elegant-form textarea{resize:vertical}.elegant-form .button{width:100%;margin-top:25px}.elegant-form fieldset{border:0;padding:0;margin:25px 0}.elegant-form legend{margin:0 0 10px}.radio-label{display:flex;align-items:center;gap:10px;padding:8px 0;font-size:18px}.radio-label input{accent-color:var(--jade);width:17px;height:17px}.form-status{font-size:16px;line-height:1.4;margin-top:15px;min-height:23px}.form-status.error{color:#ad3c30}.gift{text-align:center}.bank-card{position:relative;padding:30px 18px;background:#e8dfd0;border:1px solid #baa785;margin-top:28px}.bank-card h3{font-size:28px;font-weight:400;letter-spacing:.08em;margin:10px 0}.bank-card p:not(.eyebrow){font-size:18px}.bank-card button{margin-top:12px}.small-note{font-size:14px;opacity:.7;margin-top:18px}.rsvp{padding-top:90px}.rsvp-seal{width:65px;position:absolute;top:20px;left:calc(50% - 32.5px)}.guestbook-list{max-width:355px;margin:35px auto 0}.wish{border-top:1px solid #c2b29180;padding:22px 0;text-align:left}.wish p{font-size:20px;font-style:italic;overflow-wrap:anywhere}.wish footer{font:9px var(--sans);letter-spacing:.08em;display:flex;justify-content:space-between;gap:15px;margin-top:13px}.wish time{opacity:.5;white-space:nowrap}.empty-wishes{font-size:17px;text-align:center;font-style:italic;opacity:.65}.closing{background:linear-gradient(#20404f30,#183b4920),url('assets/01-background-satin.webp') center/cover;padding:65px 18px 45px;color:var(--paper);text-align:center}.closing-medallion{position:relative;width:100%;max-width:420px;aspect-ratio:2/3;margin:auto}.closing-fill{position:absolute;background:var(--paper);inset:12% 12%;border-radius:50%}.closing-lace{position:absolute;inset:0;width:100%;height:100%}.closing-copy{position:absolute;inset:23% 17% 15%;color:var(--ink);z-index:2;text-align:center}.closing-copy>.eyebrow{font-size:7px}.closing-copy h2{font-size:44px;margin:13px 0 16px}.closing-copy>p:not(.eyebrow):not(.script){font-size:15px;line-height:1.5;margin:12px -10px}.closing-names{font-size:46px;line-height:.9;margin-top:15px}.closing-names span{font-size:38px}.closing-copy .fine-rule{margin:18px auto}.closing-flower{position:absolute;width:32%;right:-6%;bottom:1%;z-index:3;rotate:8deg}.closing-date{font-size:17px;letter-spacing:.22em;margin-top:22px}.closing>.eyebrow{margin-top:15px;font-size:8px}.replay{color:var(--paper);margin-top:24px;font-size:8px;opacity:.8}.page-tail{height:70px;background:#183b49}.bottom-nav{position:fixed;bottom:15px;right:30px;width:500px;max-width:calc(100% - 30px);height:57px;z-index:30;background:#f8f2e8f5;backdrop-filter:blur(16px);border:1px solid #bbab8a87;box-shadow:0 6px 30px #0a30264a;border-radius:5px;display:flex;align-items:center;justify-content:space-around;transition:opacity .6s}.bottom-nav a{display:flex;flex-direction:column;align-items:center;gap:2px;text-decoration:none;color:#4e6b5c;min-width:56px;padding:5px 0}.bottom-nav a>span{font-size:22px;line-height:1}.bottom-nav small{font:7px var(--sans);letter-spacing:.03em}.bottom-nav a.active{color:var(--red)}.music-toggle{position:fixed;bottom:87px;right:21px;width:36px;height:36px;border:1px solid #e9dcc499;border-radius:50%;background:#184a3dea;color:var(--paper);z-index:35;font-size:20px}.music-toggle[aria-pressed=true]{animation:music-spin 10s linear infinite}@keyframes music-spin{to{rotate:360deg}}body.unopened .bottom-nav,body.unopened .music-toggle{opacity:0;pointer-events:none}.photo-dialog{border:0;background:#12392ef0;padding:40px 20px 20px;max-width:min(90vw,650px);max-height:92dvh;color:var(--paper);box-shadow:0 15px 70px #0007}.photo-dialog::backdrop{background:#091913e6;backdrop-filter:blur(8px)}.photo-dialog img{max-height:75dvh;max-width:100%;object-fit:contain;margin:auto}.photo-dialog button{position:absolute;right:4px;top:-2px;font-size:35px;background:transparent;color:var(--paper);width:42px;height:42px}.photo-dialog p{text-align:center;font-style:italic;font-size:18px;margin-top:10px}.toast{position:fixed;bottom:90px;left:50%;transform:translate(-50%,15px);padding:13px 22px;background:var(--paper);border:1px solid var(--gold);box-shadow:0 8px 30px #0003;z-index:100;font-size:16px;opacity:0;pointer-events:none;transition:.3s;max-width:90vw;text-align:center}.toast.visible{opacity:1;transform:translate(-50%,0)}
 @media(min-width:1500px){.desktop-art{width:calc(100% - 620px)}main{width:620px}.bottom-nav{right:60px}.hero-medallion{max-width:390px}.hero{min-height:960px}.keepsake-collage{max-width:470px;height:520px}.keepsake-name-card{top:72px}.keepsake-date{top:114px}.gallery-first{margin-left:10px}.gallery-second{margin-right:15px}}
 @media(max-width:1000px){.desktop-art{width:calc(100% - 500px)}main{width:500px}.desktop-text>.script{font-size:90px}.desktop-text .eyebrow{font-size:7px}.desktop-lantern{width:40%;top:-20px}.desktop-lantern.second{top:-60px}.desktop-bouquet{width:62%;bottom:0;right:-17%}.desktop-fan{width:70%;bottom:7%}.desktop-bottom span:last-child{display:none}.bottom-nav{width:460px;right:20px}.opening-content{width:480px}.cover-lantern{width:160px}.lantern-left{left:-30px}.lantern-right{right:-30px}.keepsake-collage{height:490px}.keepsake-name-card{top:68px}.keepsake-date{top:108px}}
 @media(max-width:760px){.desktop-art{display:none}main{width:100%;margin:0;box-shadow:none}.opening-content{max-width:470px;padding:28px 20px 18px}.letter-insert .letter-title{font-size:46px}.opening-content>.eyebrow{font-size:8px}.cover-lantern{width:100px;top:-60px}.lantern-left{left:-30px}.lantern-right{right:-32px;top:-36px}.envelope-scene{height:280px;margin-top:22px}.opening-content .guest-name{font-size:20px}.opening-content .guest-address{margin-top:-8px}.hero{min-height:840px;padding-top:25px}.hero-top{margin-bottom:43px}.hero-medallion{max-width:335px}.hero-medallion-text h2{font-size:73px}.hero-peony{bottom:105px;width:145px;left:-28px}.hero-fan{bottom:148px;right:-63px;width:195px}.hero-knot{width:83px;top:60px;right:-9px}.section-paper,.section-mint,.section-blush{padding:70px 32px}.section-heading h2{font-size:47px}.keepsake{padding:65px 20px 55px}.keepsake-collage{height:480px;max-width:420px}.keepsake-name-card{top:64px}.keepsake-date{top:102px}.keepsake .section-heading>p:last-child{font-size:17px}.keepsake .section-heading h2{font-size:49px}.bottom-nav{left:15px;right:15px;width:auto;bottom:12px}.music-toggle{bottom:80px;right:14px}.toast{bottom:82px}.rsvp{padding-top:100px}.couple-portrait{width:270px;height:405px}.quote blockquote{font-size:29px}.gallery-first{margin-left:0}.gallery-second{margin-right:0}.closing-medallion{max-width:400px}.closing-copy h2{font-size:43px}.closing-names{font-size:46px}.hero-bottom{font-size:17px}}
